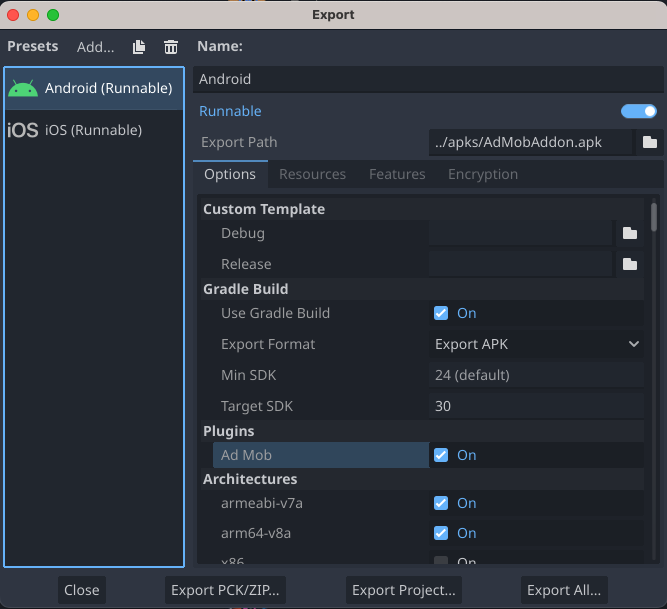
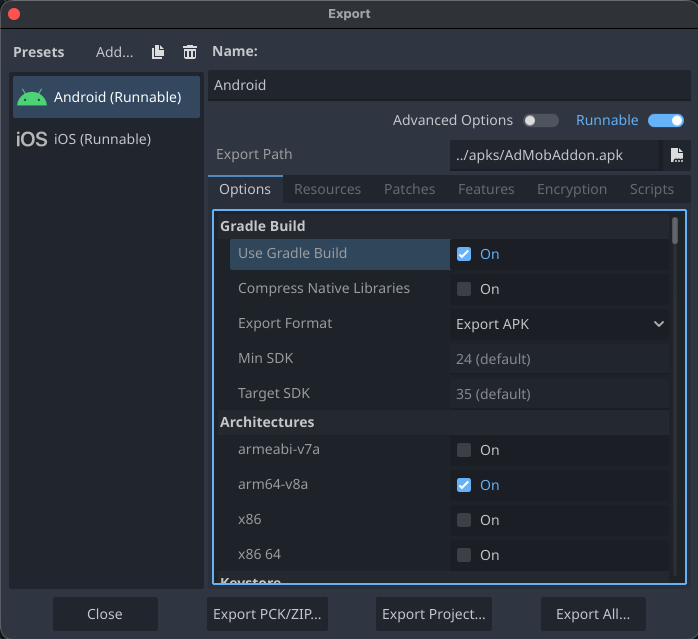
docs: Update Godot, Android, and iOS prerequisites to 4.2+ and revise installation and export guides.

diff --git a/docs/README.md b/docs/README.md
@@ -1,6 +1,6 @@
 # Get Started
 
-Integrating the AdMob plugin into your Godot project, specifically for Godot v4.1+, is the initial and crucial step in enabling ad displays and revenue generation. After successfully incorporating this plugin, you'll have the flexibility to select from various ad formats, like Banner or Interstitial, and proceed with the necessary implementation steps.
+Integrating the AdMob plugin into your Godot project, specifically for Godot v4.2+, is the initial and crucial step in enabling ad displays and revenue generation. After successfully incorporating this plugin, you'll have the flexibility to select from various ad formats, like Banner or Interstitial, and proceed with the necessary implementation steps.
 
 This document is based on:
 
@@ -9,13 +9,13 @@ This document is based on:
 
 ## Prerequisites
 
-- Use Godot v4.1 or higher
+- Use Godot v4.2 or higher
 - Deploy Android:
-	- `minSdkVersion` of 19 or higher
-	- `compileSdkVersion` of 28 or higher
+	- `minSdkVersion` of 24 or higher
+	- `compileSdkVersion` of 36 or higher
 - Deploy iOS:
-	- Use Xcode 14.1 or higher
-	- Target iOS 11.0 or higher
+	- Use Xcode 26.2 or higher
+	- Target iOS 16.0 or higher
 	- [CocoaPods](https://guides.cocoapods.org/using/getting-started.html)
 - Recommended: [Create an AdMob account](https://support.google.com/admob/answer/7356219?visit_id=638286911958663013-3847536692&rd=1) and [register an app](https://support.google.com/admob/answer/9989980?visit_id=638286911964685099-3190075945&rd=1).
 
@@ -39,15 +39,22 @@ The AdMob plugin for Godot is conveniently available via AssetLib. To import thi
 5. Once the download is complete, go to `Project > Project Settings` within the Godot editor.
 6. In the `Plugins` section, find the `AdMob` plugin and activate it.
 ![activate_plugin](assets/activate_plugin.png)
-7. With these steps, you'll have successfully integrated the AdMob plugin into your Godot project without the need for additional manual file imports.
+7. The Android and iOS libraries will be downloaded and installed automatically.
+8. With these steps, you'll have successfully integrated the AdMob plugin into your Godot project without the need for additional manual file imports.
 
-## Obtaining external libraries
+## Download & Install
+!!! info
+
+    This section is typically **not required**, as the plugin handles libraries automatically. Only follow these steps if:
+    - The automatic download or installation process failed to complete.
+    - You need to install a specific or legacy version of the Android/iOS binaries.
 
 === "Android"
+
 	To integrate the required Android library for AdMob in Godot, follow these steps:
 
-	1. In Godot, navigate to `Project > Tools > AdMob Download Manager > Android > LatestVersion`.
-	2. This action will download the appropriate Android library into your project, which is located at `res://addons/admob/downloads/android/`.
+	1. In Godot, navigate to `Project > Tools > AdMob Manager > Android > Download & Install`.
+	2. This action will download and install the appropriate Android library into your project, which is located at `res://addons/admob/android/bin/`.
 
 	If you encounter any issues with the download, you can try downloading the library manually by clicking [here](https://github.com/poingstudios/godot-admob-android/releases/latest).
 
@@ -55,41 +62,31 @@ The AdMob plugin for Godot is conveniently available via AssetLib. To import thi
 
 	To integrate the required iOS library for AdMob in Godot, follow these steps:
 
-	1. In Godot, navigate to `Project > Tools > AdMob Download Manager > iOS > LatestVersion`.
-	2. This action will download the appropriate iOS library into your project, which is located at `res://addons/admob/downloads/ios/`.
+	1. In Godot, navigate to `Project > Tools > AdMob Manager > iOS > Download & Install`.
+	2. This action will download and install the appropriate iOS library into your project, which is located at `res://ios/plugins/`.
 
 	If you encounter any issues with the download, you can try downloading the library manually by clicking [here](https://github.com/poingstudios/godot-admob-ios/releases/latest).
 
-### Installing 
+### Exporting 
 
 === "Android"
 
 	1. Install the Android Build Template by navigating to `Project > Install Android Build Template`.
-	2. Go to the directory `res://android/plugins/` and extract the contents of the `ads` folder from the downloaded `.zip` located at `res://addons/admob/downloads/android/`. If you have Mediation, do the same for `meta`, `adcolony` etc....
-	![folder](assets/android/folder.png)
-	3. Add your [AdMob App ID](https://support.google.com/admob/answer/7356431) to your app's ```res://android/build/AndroidManifest.xml``` file by adding a ```<meta-data>``` tag with name ```com.google.android.gms.ads.APPLICATION_ID```, as shown below. If you don't do this then you App will crash on start-up.
-	``` xml
-	<!-- Sample AdMob app ID: ca-app-pub-3940256099942544~3347511713 -->
-	<meta-data
-		android:name="com.google.android.gms.ads.APPLICATION_ID"
-		android:value="ca-app-pub-xxxxxxxxxxxxxxxx~yyyyyyyyyy"/>
-	```
-		3.1. **Important — App ID vs Ad Unit ID**
+	2. Add your [AdMob App ID](https://support.google.com/admob/answer/7356431) to your app's `res://addons/admob/android/config.gd` file by changing the variable `APPLICATION_ID`.
+		2.1. **Important — App ID vs Ad Unit ID**
 		- **App ID** (contains `~`): used for app registration and manifest.
 		- **Ad Unit ID** (contains `/`): used to load specific ad formats (banner, rewarded, etc.).
-	4. When exporting your project, select `Use Custom Build` and ensure that `Ad Mob` is enabled, If you have Mediation, also mark `Ad Mob Meta`, `Ad Mob AdColony` etc...
+	3. If you have Mediation, set true the libraries at `res://addons/admob/android/config.gd`, such as: `adcolony`, `meta`, `vungle`, etc...
+	4. When exporting your project, select `Use Gradle Build`.
 	![export](assets/android/export.png)
 
 === "iOS"
 
-	1. Create the iOS Plugin folder if doesn't exists on `res://ios/plugins/`.
-	2. Go to the directory `res://ios/plugins/` and extract the contents of the `ads` folder from the downloaded `.zip` located at `res://addons/admob/downloads/ios/`. If you have Mediation, do the same for `meta`, `adcolony` etc....
-	![folder](assets/ios/folder.png)
-	3. Within `res://ios/plugins/poing-godot-admob-ads.gdip`, if you are using Mediation, locate the `SKAdNetworkItems` section. Here, you can remove the comments associated with the [Mediation Networks](https://developers.google.com/admob/ios/choose-networks) that you are using.
+	1. Within `res://ios/plugins/poing-godot-admob-ads.gdip`, if you are using Mediation, locate the `SKAdNetworkItems` section. Here, you can remove the comments associated with the [Mediation Networks](https://developers.google.com/admob/ios/choose-networks) that you are using.
 	![export](assets/ios/skadnetworkitems.png)
-	4. When exporting your project, update the `GADApplicationIdentifier` with your [AdMob App ID](https://support.google.com/admob/answer/7356431) and and ensure that `Ad Mob` is enabled, If you have Mediation, also mark `Ad Mob Meta`, `Ad Mob AdColony` etc...
+	2. When exporting your project, update the `GADApplicationIdentifier` with your [AdMob App ID](https://support.google.com/admob/answer/7356431) and and ensure that `Ad Mob` is enabled, If you have Mediation, also mark `Ad Mob Meta`, `Ad Mob AdColony` etc...
 	![gadapplicationidentifier](assets/ios/gadapplicationidentifier.png)
-    	4.1. **Important — App ID vs Ad Unit ID**
+    	2.1. **Important — App ID vs Ad Unit ID**
 		- **App ID** (contains `~`): used for app registration and manifest.
 		- **Ad Unit ID** (contains `/`): used to load specific ad formats (banner, rewarded, etc.).
 	6. Once exported, go to `{{ ios_xcode_export_folder }}/{{your_project_name}}/ios/plugins/poing-godot-admob/scripts/` folder and open the terminal (must be inside this folder) and run these commands:
@@ -99,12 +96,15 @@ The AdMob plugin for Godot is conveniently available via AssetLib. To import thi
 	```
 	![update_and_installsh](assets/ios/update_and_installsh.png)
 	7. This will create for your a `{{ your_project_name }}.xcworkspace` (e.g.: `AdMobAddon.xcworkspace`) file on your `{{ ios_xcode_export_folder }}`, open this file.
-	8. Go to the Target of your Application and them `General -> Frameworks, Libraries, and Embedded Content` and add all `Pods` in section.
+	8. Go to the Target of your Application and them `General -> Frameworks, Libraries, and Embedded Content` and add all `Pods` in section **except** the `.bundle`.
 	![add_libraries](assets/ios/add_libraries.png)
 	9. Select all Frameworks (⌘ + A) and put as `Do Not Embed`
 	![do_not_embed](assets/ios/do_not_embed.png)
-	10. Run the Game.
-	11. [If you are trying to run on Simulator and is not working read this](https://github.com/godotengine/godot/issues/44681#issuecomment-751399783).
+	10. [If you are facing "__swift_FORCE_LOAD_" error, read this](https://github.com/poingstudios/godot-admob-ios/issues/127).
+		10.1. Create a `Untitled.swift` file and Xcode will ask you to Create Bridge Header -> Accept -> then it'll build normally.
+		![untitled.swift](assets/ios/untitled.swift.png)
+	11. Run the Game.
+	12. [If you are trying to run on Simulator and is not working read this](https://github.com/godotengine/godot/issues/44681#issuecomment-751399783).
 
 ## Initialize the Google Mobile Ads SDK
 Prior to loading ads, ensure that your application initializes the Google Mobile Ads SDK. You can accomplish this by calling MobileAds.initialize(). This function initializes the SDK and triggers a completion listener once the initialization process is finished, or if it exceeds a 30-second timeout. It's important to note that this initialization should occur only once, ideally during the app's launch phase.

diff --git a/docs/mediate/integrate_partner_networks/meta.md b/docs/mediate/integrate_partner_networks/meta.md
@@ -28,7 +28,7 @@ The AdMob mediation adapter for Meta Audience Network has the following capabili
 [^1]: Meta Audience Network became [bidding only](https://www.facebook.com/audiencenetwork/resources/blog/audience-network-to-become-bidding-only-beginning-with-ios-in-2021) in 2021.
 
 ## Prerequisites
-- Godot 4.1+
+- Godot 4.2+
 - Latest [Godot AdMob Plugin](https://github.com/poingstudios/godot-admob-plugin/releases/latest) 
 - Android deploy:
     - Android API level 19 or higher

diff --git a/docs/ios_pause_background.md b/docs/ios_pause_background.md
@@ -9,7 +9,7 @@ On iOS, the default value is `false`.
 # Prerequisites
 
 - Complete the [Get started guide](README.md)
-- Use Godot v4.1 or higher
+- Use Godot v4.2 or higher
 - Use AdMob Plugin **[Editor](https://github.com/poingstudios/godot-admob-plugin/releases/tag/v3.1.0)** and **[iOS](https://github.com/poingstudios/godot-admob-ios/releases/tag/v3.1.0)**: v3.1.0+
 
 # How to use

diff --git a/docs/mediate/integrate_partner_networks/vungle.md b/docs/mediate/integrate_partner_networks/vungle.md
@@ -30,7 +30,7 @@ The AdMob mediation adapter for AdColony has the following capabilities:
 [^2]: For access to this feature, contact your Liftoff Monetize account manager.
 
 ## Prerequisites
-- Godot 4.1+
+- Godot 4.2+
 - Latest [Godot AdMob Plugin](https://github.com/poingstudios/godot-admob-plugin/releases/latest) 
 - Android deploy:
     - Android API level 19 or higher

diff --git a/docs/mediate/integrate_partner_networks/ad_colony.md b/docs/mediate/integrate_partner_networks/ad_colony.md
@@ -24,7 +24,7 @@ The AdMob mediation adapter for AdColony has the following capabilities:
 
 
 ## Prerequisites
-- Godot 4.1+
+- Godot 4.2+
 - Latest [Godot AdMob Plugin](https://github.com/poingstudios/godot-admob-plugin/releases/latest) 
 - Android deploy:
     - Android API level 19 or higher
